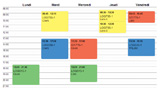
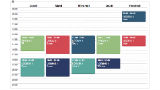
Modified HTML Calendar colors

diff --git a/app/models/printers/html/stylesheet_context.rb b/app/models/printers/html/stylesheet_context.rb
@@ -1,7 +1,14 @@
 # -*- encoding : utf-8 -*-
 
 class StylesheetContext
-
+  PERIODS_COLORS = %w(
+    rgb(90,167,157)
+    rgb(49,90,119)
+    rgb(43,58,101)
+    rgb(210,73,82)
+    rgb(151,190,126)
+    rgb(231,223,154)
+  )
   COLUMN_WIDTH = 150
   ROW_HEIGHT = 15
   PERIOD_PADDING = 5
@@ -16,6 +23,19 @@ class StylesheetContext
   end
 
   private
+
+  def period_colors
+    colors = PERIODS_COLORS.each_with_index.collect do |color, index|
+      indent("&.period-#{index + 1}\n", 4.times) +
+        indent("background-color: #{color}\n", 5.times) +
+        indent("@if lightness(#{color}) > lightness(#aaaaaa)\n", 5.times) +
+          indent("color: #4a4a4a\n", 6.times) +
+        indent("@else\n", 5.times) +
+          indent("color: #fafafa\n", 6.times) +
+        indent("@include box-shadow(0 3px 0 darken(#{color}, 10%))\n", 5.times)
+    end
+    colors.flatten.join
+  end
 
   def weekday_classes
     styles = @weekdays.each_with_index.collect do |weekday, index|
